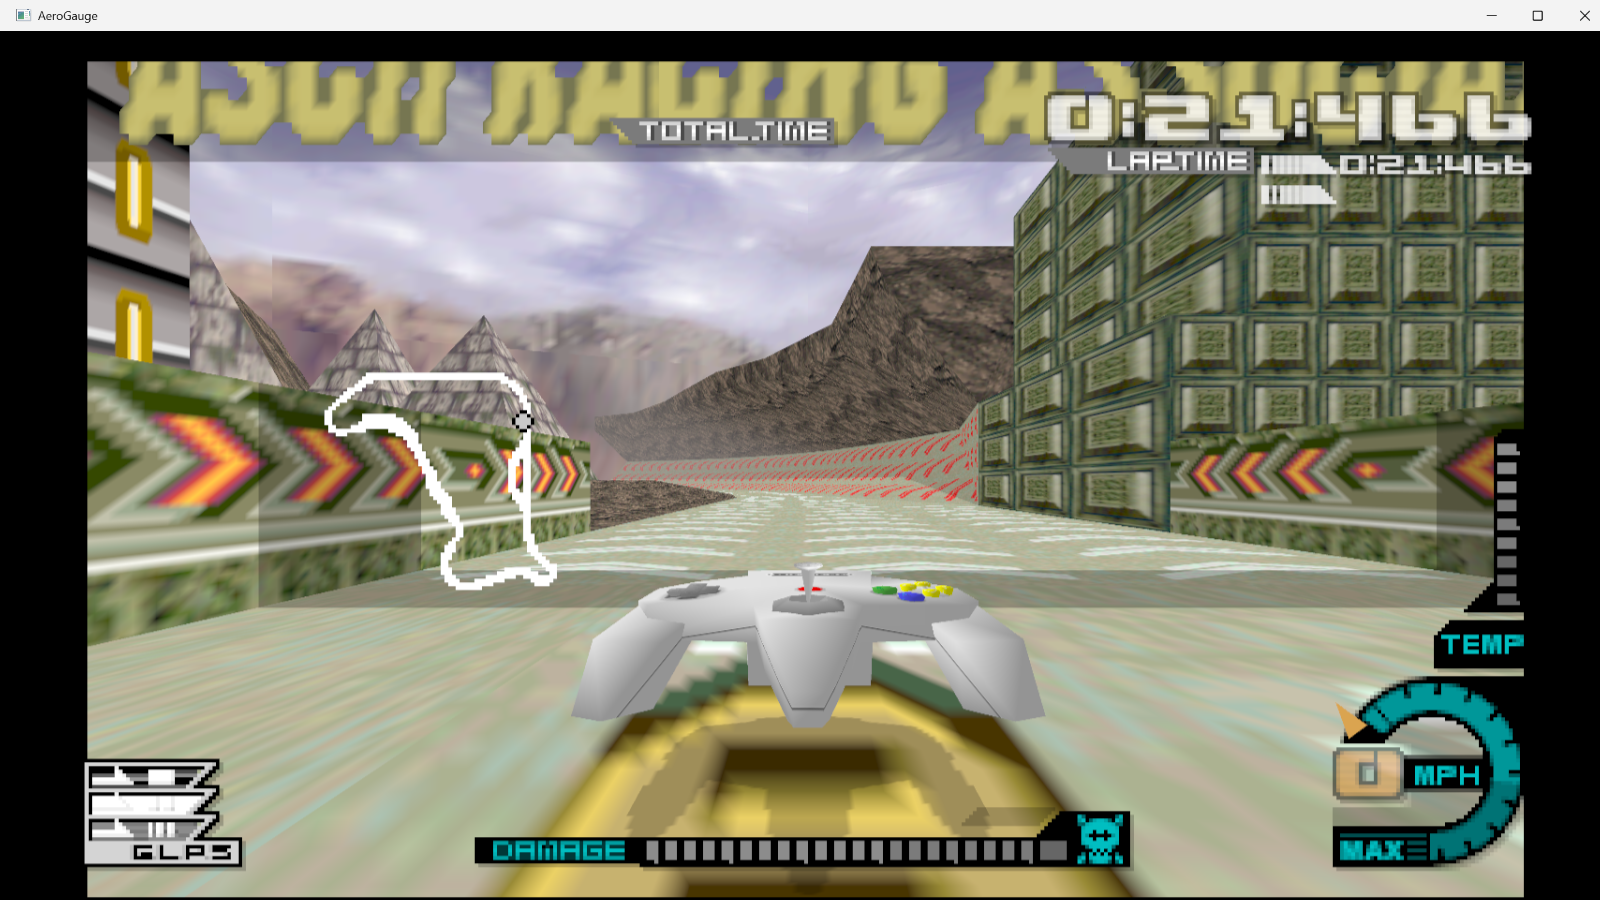
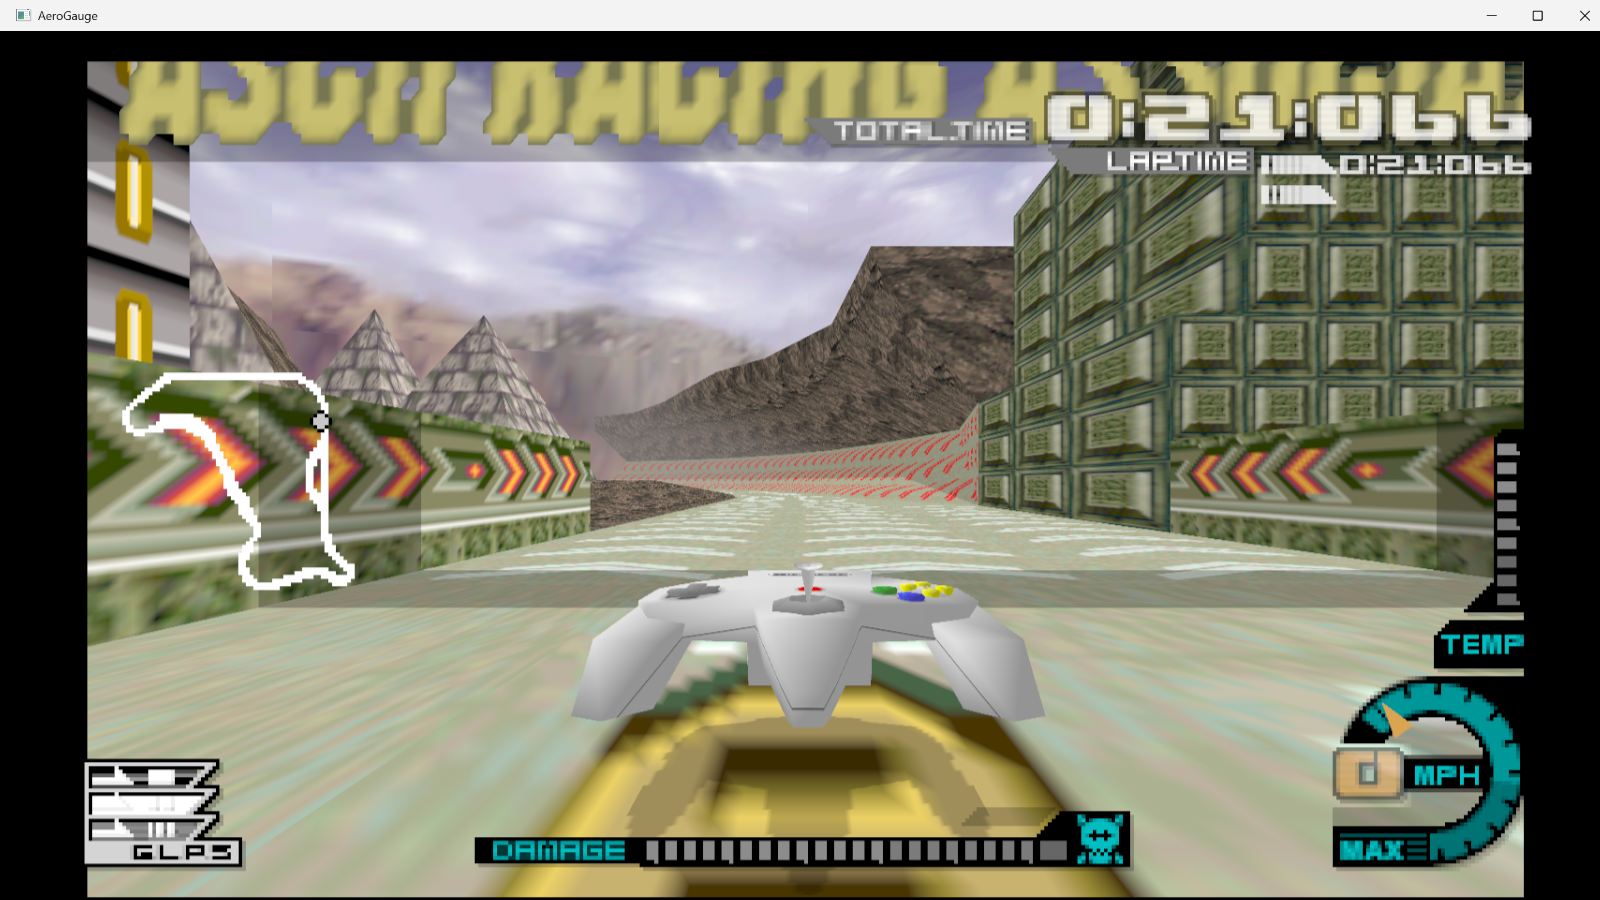
HUD widescreen: fix needle travel, pin the minimap + TOTAL.TIME header (#1)
Three pixel-measured corrections to the retag increment (user-reported: the
needle was short of the dial and the minimap never moved):

1. Needle: the hand-calibrated AERO_WS_NEEDLE_DX=41 was systematically low --
   at eff-16:9 the rect-aligned dial travels (16/9 / (4/3) - 1)*160 = 53.33
   320-space px (measured 203 px on screen) while the needle moved only 158 px
   (exactly 41/53.3 of it). Live-logging the modelview at the hook proved the
   matrix unit is ONE 320-space pixel (translate.x int 114 -> screen 160+114),
   so the shift is now the analytic 53.333. Needle/digit offsets relative to
   the dial now match the Original layout within 3 px.

2. Minimap: live G_MTX probing (shift every modelview; then per-GDL-target
   probes) moved the sky, craft and scene but never the white track outline --
   the outline is baked into the TEXTURE of the 20..100 x y70..172 texrect,
   not drawn as geometry (the old polyline note described the rival-marker
   meshes, culled in 1P). So the whole minimap pins LEFT through the rect
   classifier; the bottom-band gate that protected it is removed. Rival
   markers in multi-craft races remain a spot-check follow-up.

3. The white TOTAL.TIME header (107..169, y23) crosses the centre deadband
   but natively sits immediately left of the big digits; special-case matched
   (top strip only) so it travels with the timer group.

Also gate the retag on the scene manager phase (3 = steady race, 7 = steady
[…]

diff --git a/src/aero_hud_widescreen.c b/src/aero_hud_widescreen.c
@@ -33,6 +33,9 @@
 #define AERO_HUD_CURSOR_HOLDER 0x8016C508u /* fixed DL write-cursor holder (live-derived) */
 #define AERO_SCENE_CUR         0x8013FF80u /* scene manager: current scene id (5 = race) */
 #define AERO_SCENE_RACE        5u
+#define AERO_SCENE_PHASE       0x8013FF88u /* scene-local phase (see aero_warp.c) */
+#define AERO_PHASE_RACE_STEADY 3u          /* steady racing HUD, menu-launched/warp race */
+#define AERO_PHASE_ATTRACT     7u          /* steady attract-demo race */
 
 static void emit_at(uint8_t* rdram, gpr* cur, uint32_t w0, uint32_t w1) {
     MEM_W(0, *cur) = (int32_t)w0;
@@ -111,13 +114,15 @@ static void bracket_close_at(uint8_t* rdram, gpr* cur) {
 
 #define AERO_NEEDLE_MESH_ADDR 0x800995C0u /* static needle VTX+TRI1 sub-DL (live-derived) */
 
-// 16:9 shift magnitude in the needle matrix's translate.x units (the projection-combined
-// modelview, NOT Lamborghini's 10-units/px convention -- so 530 does NOT carry over).
-// Live-calibrated 2026-07-12: at a >=16:9 Clamp16x9 window (internal scale == 1.0) the dial
-// ring pins right by ~152 screen px and the needle travels ~3.73 px per unit, so 41 units
-// lands the needle hub back on the dial (verified: needle centroid 1196 -> 1350 px, target
-// 1348 = native offset preserved). AERO_WS_NEEDLE_DX overrides it for recalibration.
-#define AERO_WS_NEEDLE_DX 41.0f
+// 16:9 shift magnitude in the needle matrix's translate.x units. The unit is ONE
+// 320-space pixel: live-logged at the hook, the needle modelview's translate.x int part
+// is 114 and 160 + 114 = 274 = the needle's screen x -- and pixel-measuring a probe
+// confirmed the ratio (a 41-unit shift moved the needle 158 px while the rect-aligned
+// dial travelled 203 px; 41/53.3 == 158/205). So the needle must travel exactly the
+// rects' 16:9 travel in the same space: 320 * (16/9 / (4/3) - 1) / 2 = 53.33 px. (The
+// original hand calibration of 41 was systematically short -- the "split speedo" the
+// user reported.) AERO_WS_NEEDLE_DX overrides it for recalibration.
+#define AERO_WS_NEEDLE_DX 53.333f
 
 static float aero_ws_needle_shift_scale(void) {
     extern uint32_t aero_ws_get_hud_rect_aspect_bits(void);
@@ -170,7 +175,8 @@ static void aero_ws_needle_shift(uint8_t* rdram, gpr start, gpr end) {
 // advanced past the new end (later frame-closing commands append there as normal).
 //
 // Safety posture (all verified against the mode-4 race capture, hud-pre dump):
-//  - only runs in the race scene (menus compose 4:3 layouts that must not be pinned);
+//  - only runs in the race scene's steady phases (menus compose 4:3 layouts and the race
+//    entry phases sweep full-screen wipe rects; neither must be pinned);
 //  - skipped whole-frame if any G_DL in the range targets the range itself (re-emitting
 //    would move the branch target; the real stream's sub-DL targets are all static);
 //  - a bracket force-closes on the game's own raw G_SETSCISSOR (one occurs mid-HUD; a
@@ -207,6 +213,13 @@ static void aero_ws_retag_rects(uint8_t* rdram, gpr start, gpr end) {
         return;
     }
     if ((uint32_t)MEM_W(0, (gpr)(int32_t)AERO_SCENE_CUR) != AERO_SCENE_RACE) {
+        return;
+    }
+    // Steady-HUD phases only: the race scene's entry phases (1/2) drive full-screen
+    // wipe transitions with rects sweeping the whole 320 width -- fragments of a wipe
+    // must not pin to an edge mid-sweep.
+    uint32_t phase = (uint32_t)MEM_W(0, (gpr)(int32_t)AERO_SCENE_PHASE);
+    if (phase != AERO_PHASE_RACE_STEADY && phase != AERO_PHASE_ATTRACT) {
         return;
     }
     size_t n = (size_t)(end - start) / 8;

diff --git a/src/aero_hud_widescreen.h b/src/aero_hud_widescreen.h
@@ -66,26 +66,29 @@ enum aero_ws_pin {
 // Asymmetric deadband around the 320-wide centre (160): a rect pins only when it sits
 // fully on one side with margin, so centred elements (DAMAGE 117..229, the 71..247 bottom
 // panel, the countdown numerals) never move. Bounds measured from the mode-4 race capture:
-// GLPS reaches 64 (left); the leftmost right-side rects (lap-time label 171.., top row
-// 170..) start at 170. The LEFT bound must stay below 117: the DAMAGE bar's fill rect
-// anchors at its left edge x=117 and grows rightward with damage (117..117 when empty),
-// so any bound >= 117 would pin the low-damage fill LEFT while the rest of the bar stays
-// centred.
+// the leftmost LEFT elements are GLPS (lrx 64) and the minimap texture rect (lrx 100 --
+// the white track outline is baked into that texture, NOT drawn as geometry: shifting
+// every live G_MTX left it put, and it sits exactly inside the rect); the leftmost
+// right-side rects (lap-time label 171.., top row 170..) start at 170. The LEFT bound
+// must stay below 117: the DAMAGE bar's fill rect anchors at its left edge x=117 and
+// grows rightward with damage (117..117 when empty), so any bound >= 117 would pin the
+// low-damage fill LEFT while the rest of the bar stays centred.
 #define AERO_WS_LEFT_MAX_QP    (100 * 4)
 #define AERO_WS_RIGHT_MIN_QP   (168 * 4)
-// LEFT additionally requires the bottom band: in this HUD the only left-pinned elements
-// (the GLPS ladder, y 194..224) live below y=180, while the minimap (bg rect x 20..100,
-// y 70..172, plus its craft blips) also classifies left by x but must NOT move -- its
-// track polyline is matrix-drawn geometry that a rect-align cannot carry (it needs its
-// own G_MTX translate shift, like the needle; retained follow-up on issue #1). A moved
-// bg with a centred polyline would split the minimap the same way the ring/needle split.
-#define AERO_WS_LEFT_MIN_ULY_QP (180 * 4)
 
 static inline int aero_ws_classify_rect_qp(int ulx_qp, int lrx_qp, int uly_qp) {
     if (lrx_qp <= AERO_WS_LEFT_MAX_QP) {
-        return uly_qp >= AERO_WS_LEFT_MIN_ULY_QP ? AERO_WS_PIN_LEFT : AERO_WS_PIN_NONE;
+        return AERO_WS_PIN_LEFT;
     }
     if (ulx_qp >= AERO_WS_RIGHT_MIN_QP) {
+        return AERO_WS_PIN_RIGHT;
+    }
+    // The white "TOTAL.TIME" header (measured 107..169, y23..31) is part of the timer
+    // group -- natively it sits immediately left of the big time digits (170..302,
+    // y16..31) -- but it crosses the centre deadband, so pure thresholds leave it
+    // behind when its digits pin right. Match it tightly (top strip only) and keep it
+    // travelling with the group.
+    if (ulx_qp >= 104 * 4 && lrx_qp <= 172 * 4 && uly_qp <= 26 * 4) {
         return AERO_WS_PIN_RIGHT;
     }
     return AERO_WS_PIN_NONE;

diff --git a/tests/test_hud_shift_scale.c b/tests/test_hud_shift_scale.c
@@ -73,13 +73,16 @@ int main(void) {
     // a 152 LEFT bound pinned the empty fill while the bar frame stayed put).
     assert(aero_ws_classify_rect_qp(QP(117), QP(117), QP(216)) == AERO_WS_PIN_NONE);
     assert(aero_ws_classify_rect_qp(QP(117), QP(140), QP(216)) == AERO_WS_PIN_NONE);
-    // top-centre bar (107..169, y23): straddles the deadband, stays.
-    assert(aero_ws_classify_rect_qp(QP(107), QP(169), QP(23)) == AERO_WS_PIN_NONE);
-    // minimap background (20..100, y70) and a craft blip (80..88, y100): left by x but
-    // ABOVE the bottom band -- must stay centred with the matrix-drawn track polyline
-    // until the polyline gets its own G_MTX shift (retained follow-up).
-    assert(aero_ws_classify_rect_qp(QP(20), QP(100), QP(70)) == AERO_WS_PIN_NONE);
-    assert(aero_ws_classify_rect_qp(QP(80), QP(88), QP(100)) == AERO_WS_PIN_NONE);
+    // the white TOTAL.TIME header (107..169, y23) crosses the deadband but is part of
+    // the timer group (natively adjacent to the big digits at 170..): special-cased RIGHT.
+    assert(aero_ws_classify_rect_qp(QP(107), QP(169), QP(23)) == AERO_WS_PIN_RIGHT);
+    // ...but a similar-width rect lower on screen is NOT the header: stays centred.
+    assert(aero_ws_classify_rect_qp(QP(107), QP(169), QP(120)) == AERO_WS_PIN_NONE);
+    // minimap texture rect (20..100, y70 -- the track outline is baked into the texture,
+    // not drawn as geometry) and the craft blip riding it (80..88, y100): LEFT, so the
+    // whole minimap travels together with GLPS.
+    assert(aero_ws_classify_rect_qp(QP(20), QP(100), QP(70)) == AERO_WS_PIN_LEFT);
+    assert(aero_ws_classify_rect_qp(QP(80), QP(88), QP(100)) == AERO_WS_PIN_LEFT);
 #undef QP
 
     printf("all HUD shift-scale assertions passed\n");

diff --git a/docs/notes/hud-widescreen.md b/docs/notes/hud-widescreen.md
@@ -82,15 +82,16 @@ behind (user-reported "split speedo"). The needle is now pinned too; live-derive
   walks `[start,end)`, finds the needle MTX by the `0x800995C0` key, and adds `dx` to its
   matrix translate.x (element 12 = byte 24 int / byte 24+0x20 frac, s15.16 — identical layout
   to Lamborghini's guMtxL; MEM_H/MEM_HU handle the endian + KSEG masking).
-- **Matrix convention differs from Lamborghini — calibrated live, not analytic.** The needle
-  modelview `0x80185970` is PROJECTION-COMBINED (decoded translate ~(-19713, 29184, 256),
-  `m[3][3]=0`, recurring `256` scale), so Lambo's `530 units` does NOT carry over. Calibrated
-  by windowed PrintWindow capture at 1616x939 (>=16:9 client => internal scale 1.0): the dial
-  ring pins right ~152 screen px, the needle travels ~3.73 px/unit, so **`AERO_WS_NEEDLE_DX =
-  41`** lands the needle hub back on the dial (needle centroid 1196 -> 1350 px vs target 1348
-  = native offset preserved). Env-overridable for recalibration. Scaled off
-  `aero_ws_get_hud_rect_aspect_bits()` => 0 at 4:3/Original (no-op, no config gate), caps at
-  16:9 under Clamp16x9.
+- **Matrix unit = one 320-space pixel; the shift is ANALYTIC, not calibrated** (corrected
+  2026-07-16 — the original hand calibration of `41` was systematically short and left the
+  needle ~45 px inboard of the pinned dial, user-reported). Live-logging the modelview at
+  the hook shows translate.x int part `114` with the needle at screen x `160+114=274`, and
+  a probe confirmed the ratio (41 units moved the needle 158 px while the dial travelled
+  203 px; `41/53.3 == 158/205`). So **`AERO_WS_NEEDLE_DX = 53.333`** = the rects' own 16:9
+  travel in the same space, `320*(16/9 / (4/3) - 1)/2`. Env-overridable. Scaled off
+  `aero_ws_get_hud_rect_aspect_bits()` => 0 at 4:3/Original (no-op, no config gate), caps
+  at 16:9 under Clamp16x9. Verified: needle/digit offsets relative to the dial's right
+  edge now match the Original layout within 3 px.
 
 Before/after (real RT64 D3D12, 1616x939 16:9 canyon race; needle only — the "0" digit below
 is the retained follow-up):
@@ -120,20 +121,27 @@ texrects, each rect classified **by its own coordinates** in the original 320-wi
 (`aero_ws_classify_rect_qp`, thresholds measured from the steady mode-4 capture):
 
 - RIGHT if `ulx >= 168`: dial ring 247..300, lap-time row 171..301, MPH digit 247..267 +
-  its scale ticks 187.., TEMP 274..300, top lap/position row 170..302.
-- LEFT if `lrx <= 100` **and** `uly >= 180` (the bottom band): the GLPS ladder 20..64.
-  The 100 bound stays below the DAMAGE bar's left edge (117) so its left-anchored fill
-  rect (117..117 when empty, growing rightward) never pins at any damage level.
-  The band gate keeps the minimap (bg rect 20..100 at y70..172 + craft blips) centred —
-  its track polyline is matrix-drawn geometry a rect-align cannot carry (follow-up below).
-- everything else stays: DAMAGE 117..229, the 71..247 bottom panel, top-centre bar
-  107..169, countdown numerals.
+  its scale ticks 187.., TEMP 274..300, top lap/position row 170..302. The white
+  "TOTAL.TIME" header (107..169, y23..31) crosses the deadband but natively sits
+  immediately left of the big digits, so it is special-case matched (top strip only) and
+  travels with the timer group.
+- LEFT if `lrx <= 100`: the GLPS ladder 20..64 AND **the whole minimap**. Live G_MTX
+  probing (2026-07-16) disproved the earlier "polyline geometry" note: shifting every
+  live modelview matrix moved the sky backdrop, the craft and the whole 3D scene but
+  never the white track outline — it is baked into the TEXTURE of the 20..100 x y70..172
+  texrect (and sits exactly inside it), so the map + its craft-blip rect pin LEFT like
+  any other rect. The 100 bound stays below the DAMAGE bar's left edge (117) so its
+  left-anchored fill rect (117..117 when empty, growing rightward) never pins at any
+  damage level.
+- everything else stays: DAMAGE 117..229, the 71..247 bottom panel, countdown numerals.
 
-Safety posture (each verified against the pre capture): race scene gate (`0x8013FF80 == 5`;
-menus compose 4:3 layouts that must not be pinned), whole-frame skip if any in-range `G_DL`
-target, force-close on the game's raw mid-HUD `G_SETSCISSOR` and on 3D commands, bounded
-growth (~10 commands per bracket, ~6 brackets/frame) against a measured >=4KB of free
-space after the frame DL end, `AERO_WS_RETAG=0` kill-switch for pre/post captures.
+Safety posture (each verified against the pre capture): race scene + steady-phase gate
+(`0x8013FF80 == 5` and phase `0x8013FF88` in {3 = steady race, 7 = steady attract};
+menus compose 4:3 layouts and the race entry phases 1/2 sweep full-screen wipe rects —
+neither may pin), whole-frame skip if any in-range `G_DL` target, force-close on the
+game's raw mid-HUD `G_SETSCISSOR` and on 3D commands, bounded growth (~10 commands per
+bracket, ~7 brackets/frame) against a measured >=4KB of free space after the frame DL
+end, `AERO_WS_RETAG=0` kill-switch for pre/post captures.
 
 Before/after (real RT64 D3D12, 1600x900 16:9 canyon race; `hr_option: Original` = the
 unpinned reference layout, `Clamp16x9` = every rect element pinned):
@@ -142,16 +150,18 @@ unpinned reference layout, `Clamp16x9` = every rect element pinned):
 |---|---|
 | ![retag before](../hud-widescreen-1p-retag-original-16x9.png) | ![retag after](../hud-widescreen-1p-retag-after-16x9.png) |
 
-Known cosmetic gap: the white "TOTAL.TIME" header (107..169, y23) straddles the centre
-deadband so it stays centred while its digit row pins right — per-rect geometry alone
-cannot attribute it to the timer group. Candidate refinement alongside the minimap work.
+Alignment was verified by pixel measurement, not by eye: at eff-16:9 the rect travel is
+`(16/9-4/3)*H/2` ≈ 191 px and the dial/TEMP/timer/GLPS/minimap all land flush at the
+image edges preserving each element's NATIVE margin (timer's rightmost rect is natively
+19/320 from the screen edge, GLPS/minimap natively 20/320 — those margins scale up with
+the window and are intentional); the needle/digit offsets relative to the dial match the
+Original layout within 3 px; `Original` re-measures pixel-identical to pre-change.
 
-## NOT yet shipped (retained, follow-up)
+## Remaining follow-ups
 
-- **Minimap → LEFT**: needs a G_MTX translate shift for the track polyline (same approach
-  and calibration recipe as the needle; the polyline G_MTX/G_DL pairs sit well before the
-  HUD rects in the frame DL), then the classifier's bottom-band LEFT gate can be relaxed
-  so the bg rect + blips travel with it.
+- **Rival craft markers on the minimap** (multi-craft GP races): five white 2-triangle
+  meshes (`G_DL -> 0x803AF560..680`, matrix-positioned) are culled in 1P warp races and
+  were NOT exercised by this work — in a multi-craft race they may need a matrix shift to
+  track the LEFT-pinned map texture. Spot-check in a GP race.
 - **Human spot-check** at 4:3 / 16:9 / 21:9 with Original/Clamp16x9/Full HUD modes, plus
-  the race pause overlay and 2P behaviour (the retag currently applies wherever scene 5
-  draws, including the attract-race and pause overlays).
+  the race pause overlay and 2P behaviour.
